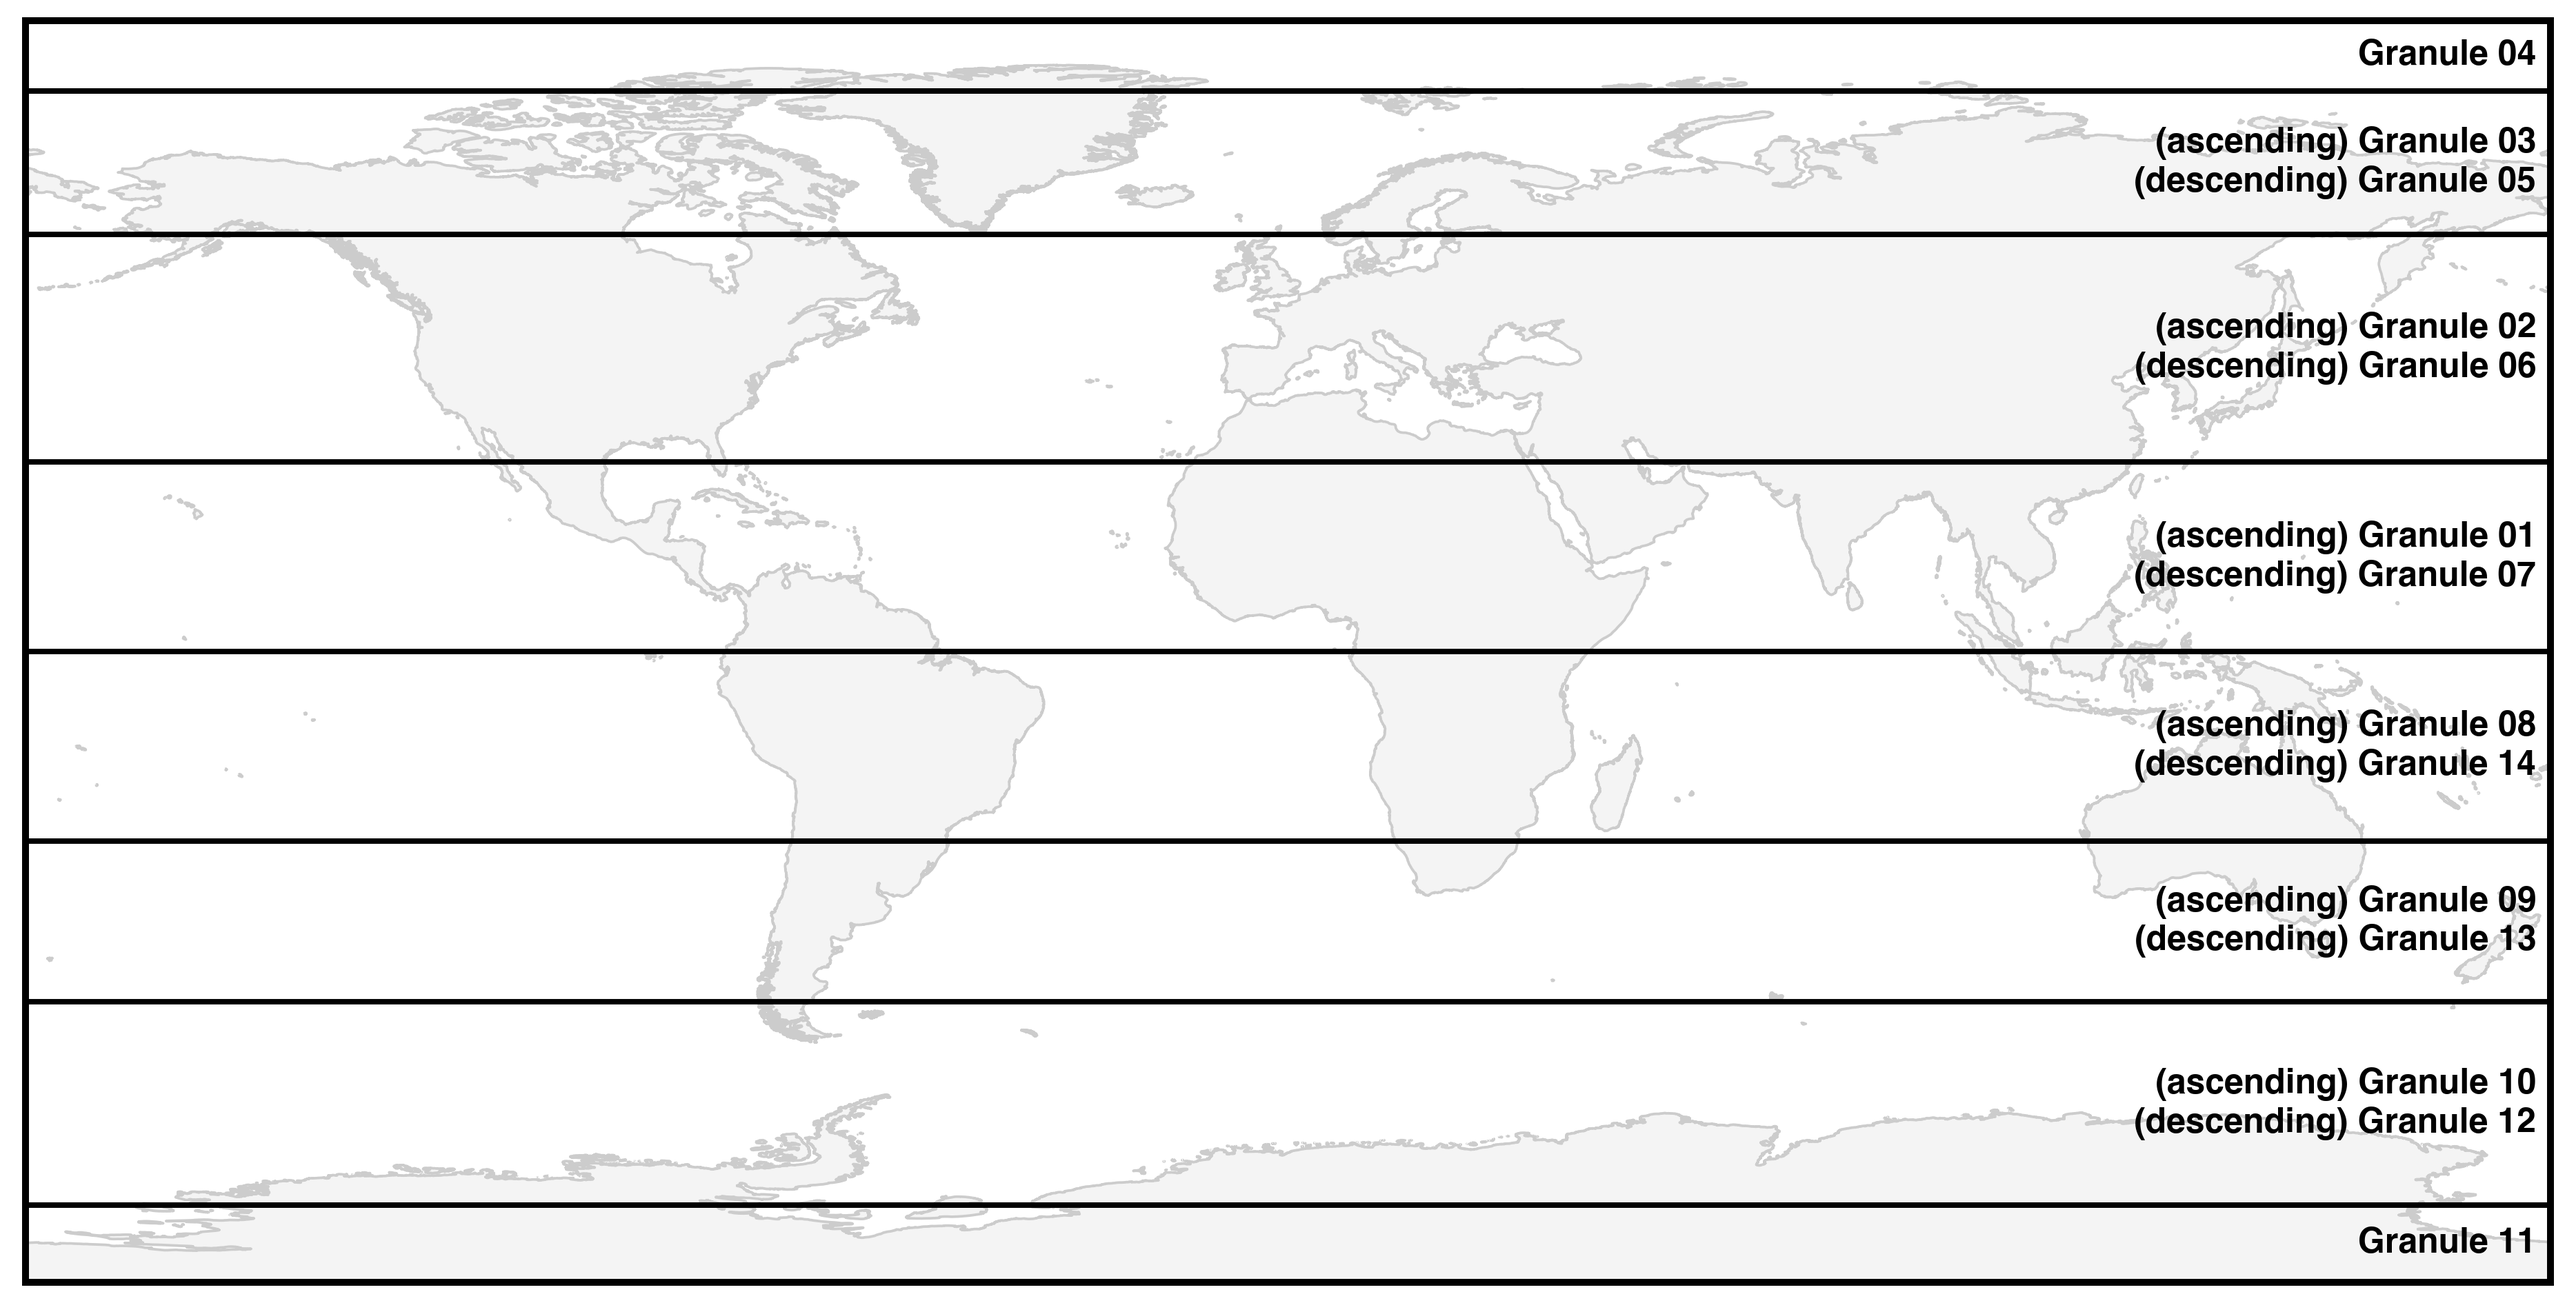
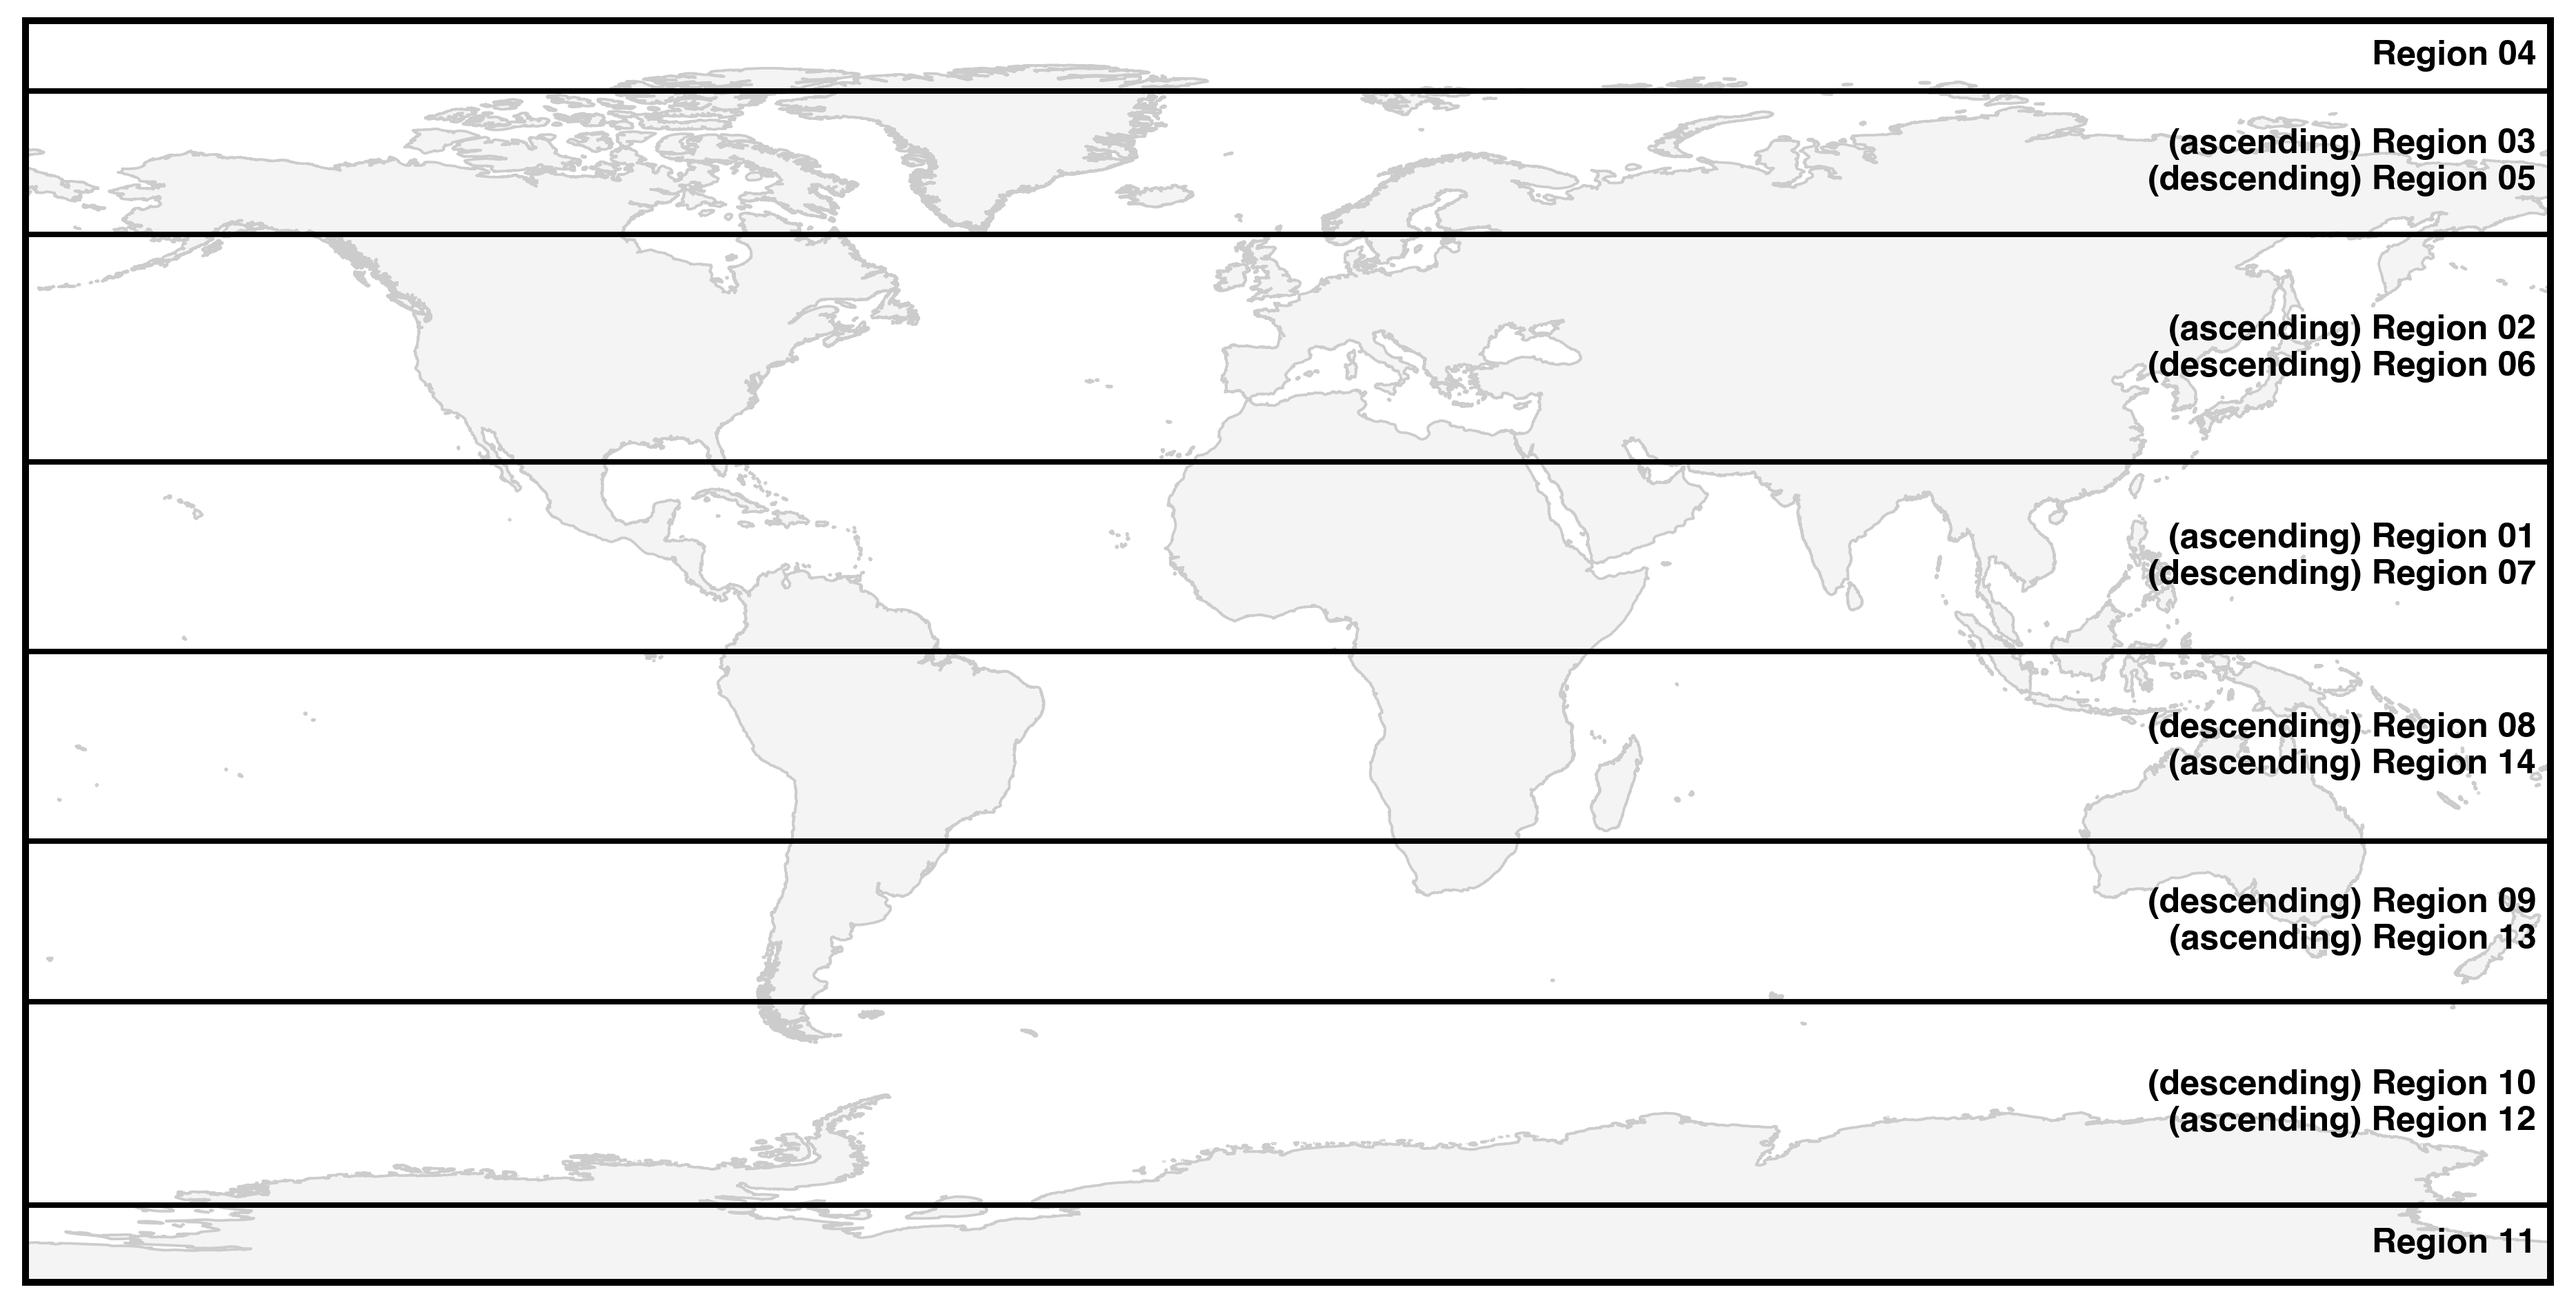
ci: use mamba for builds (#82)
ci: update import versions for deprecation errors
docs: update maps to use "region" instead of "granule"

diff --git a/icesat2_toolkit/spatial.py b/icesat2_toolkit/spatial.py
@@ -44,17 +44,17 @@ import numpy as np
 # attempt imports
 try:
     import osgeo.gdal, osgeo.osr, osgeo.gdalconst
-except (ImportError, ModuleNotFoundError) as exc:
+except (AttributeError, ImportError, ModuleNotFoundError) as exc:
     warnings.filterwarnings("module")
     warnings.warn("GDAL not available", ImportWarning)
 try:
     import h5py
-except (ImportError, ModuleNotFoundError) as exc:
+except (AttributeError, ImportError, ModuleNotFoundError) as exc:
     warnings.filterwarnings("module")
     warnings.warn("h5py not available", ImportWarning)
 try:
     import netCDF4
-except (ImportError, ModuleNotFoundError) as exc:
+except (AttributeError, ImportError, ModuleNotFoundError) as exc:
     warnings.filterwarnings("module")
     warnings.warn("netCDF4 not available", ImportWarning)
 # ignore warnings

diff --git a/icesat2_toolkit/utilities.py b/icesat2_toolkit/utilities.py
@@ -81,12 +81,12 @@ else:
 # attempt imports
 try:
     import boto3
-except (ImportError, ModuleNotFoundError) as exc:
+except (AttributeError, ImportError, ModuleNotFoundError) as exc:
     warnings.filterwarnings("module")
     warnings.warn("boto3 not available", ImportWarning)
 try:
     import s3fs
-except (ImportError, ModuleNotFoundError) as exc:
+except (AttributeError, ImportError, ModuleNotFoundError) as exc:
     warnings.filterwarnings("module")
     warnings.warn("s3fs not available", ImportWarning)
 # ignore warnings

diff --git a/icesat2_toolkit/tools.py b/icesat2_toolkit/tools.py
@@ -27,7 +27,7 @@ import numpy as np
 try:
     import matplotlib.cm as cm
     import matplotlib.colors as colors
-except (ImportError, ModuleNotFoundError) as exc:
+except (AttributeError, ImportError, ModuleNotFoundError) as exc:
     warnings.filterwarnings("module")
     warnings.warn("matplotlib not available", ImportWarning)
 # ignore warnings

diff --git a/scripts/MPI_ICESat2_ATL03_histogram.py b/scripts/MPI_ICESat2_ATL03_histogram.py
@@ -138,7 +138,7 @@ except ModuleNotFoundError:
 try:
     import sklearn.neighbors
     import sklearn.cluster
-except (ImportError, ModuleNotFoundError) as exc:
+except (AttributeError, ImportError, ModuleNotFoundError) as exc:
     warnings.filterwarnings("module")
     warnings.warn("scikit-learn not available", ImportWarning)
 try:

diff --git a/scripts/MPI_ICESat2_ATL03.py b/scripts/MPI_ICESat2_ATL03.py
@@ -99,7 +99,7 @@ except ModuleNotFoundError:
 try:
     import sklearn.neighbors
     import sklearn.cluster
-except (ImportError, ModuleNotFoundError) as exc:
+except (AttributeError, ImportError, ModuleNotFoundError) as exc:
     warnings.filterwarnings("module")
     warnings.warn("scikit-learn not available", ImportWarning)
 try:

diff --git a/icesat2_toolkit/fit.py b/icesat2_toolkit/fit.py
@@ -30,7 +30,7 @@ import scipy.optimize
 # attempt imports
 try:
     import sklearn.neighbors
-except (ImportError, ModuleNotFoundError) as exc:
+except (AttributeError, ImportError, ModuleNotFoundError) as exc:
     warnings.filterwarnings("module")
     warnings.warn("scikit-learn not available", ImportWarning)
 # ignore warnings

diff --git a/scripts/nsidc_icesat2_sync_s3.py b/scripts/nsidc_icesat2_sync_s3.py
@@ -119,7 +119,7 @@ import icesat2_toolkit as is2tk
 # attempt imports
 try:
     import boto3
-except (ImportError, ModuleNotFoundError) as exc:
+except (AttributeError, ImportError, ModuleNotFoundError) as exc:
     warnings.filterwarnings("module")
     warnings.warn("boto3 not available", ImportWarning)
 # ignore warnings
